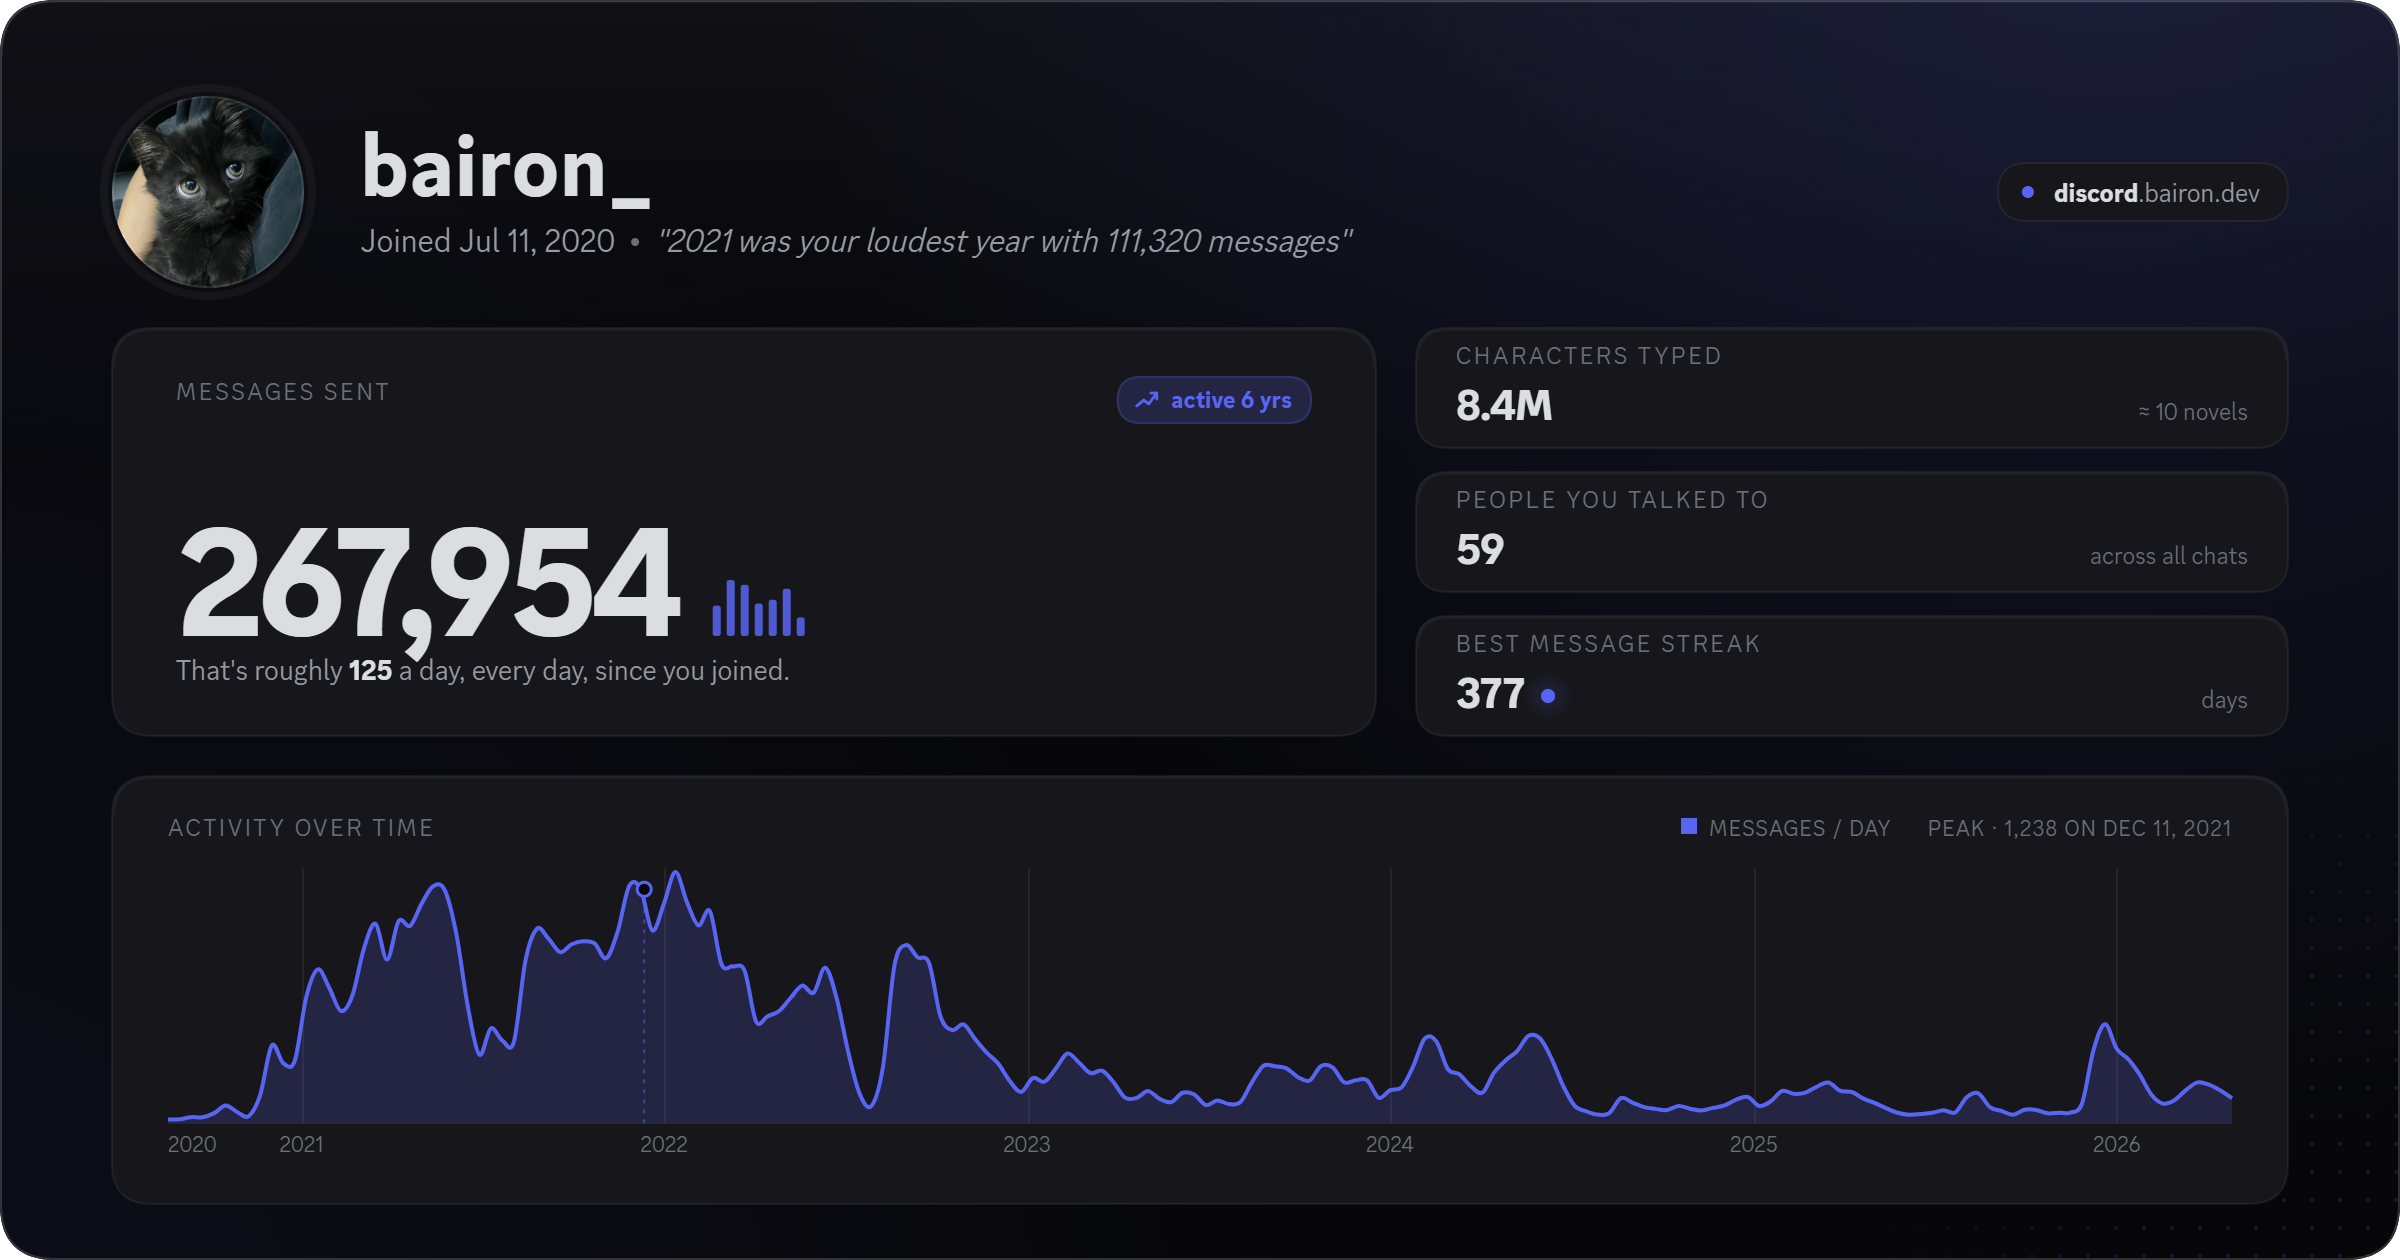
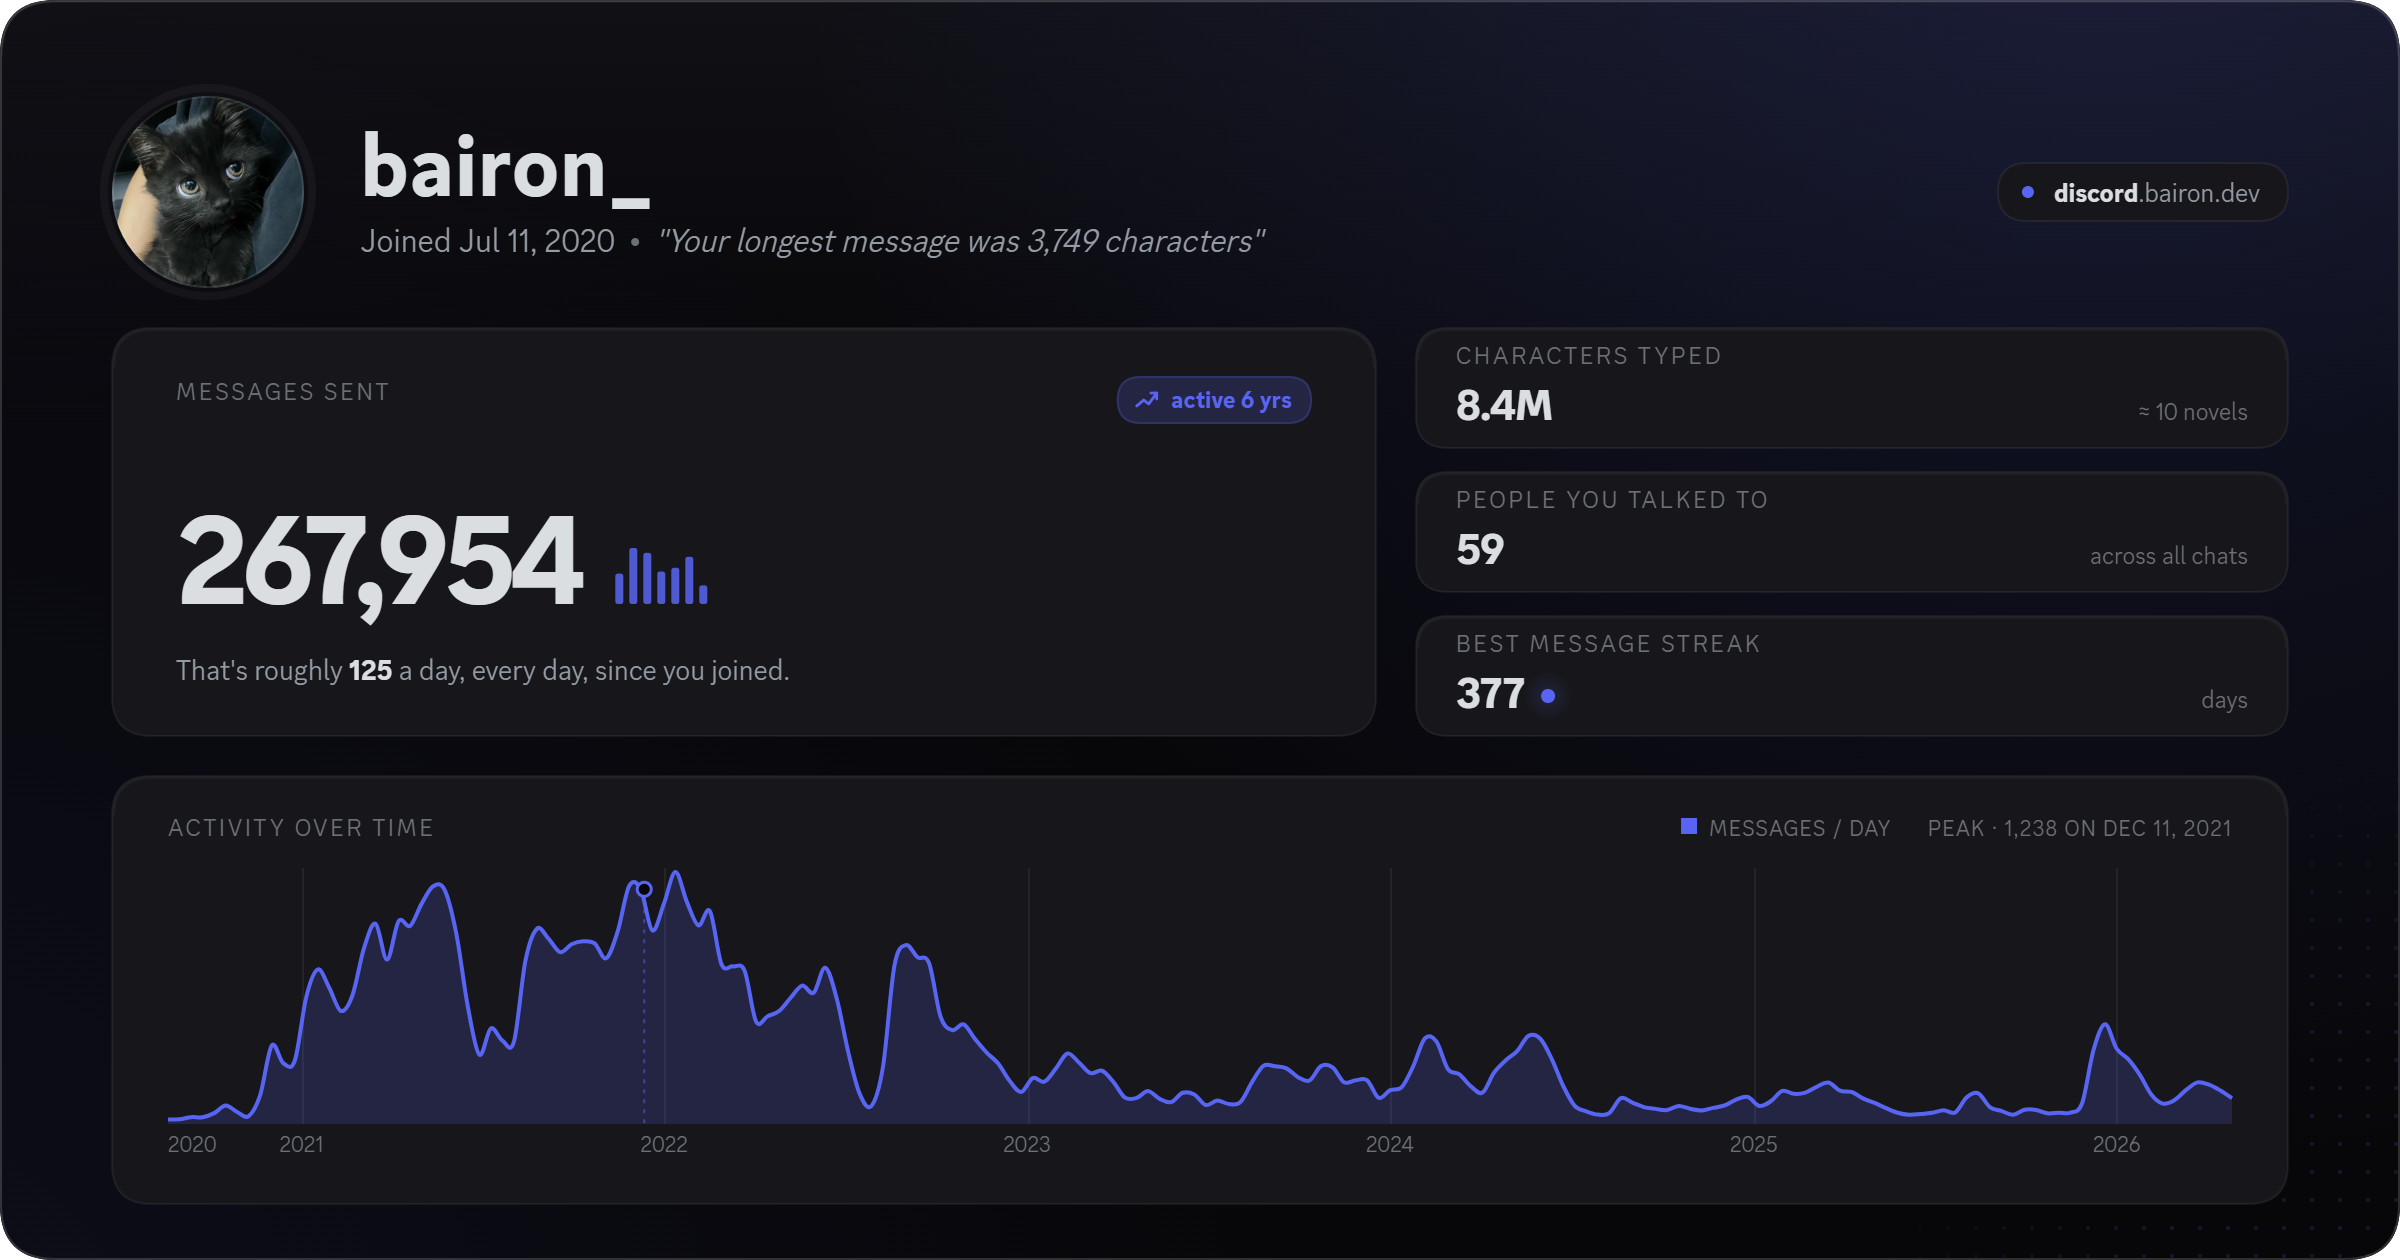
rewrite readme

Changed region(s): [[0.0625, 0.4024, 0.3438, 0.5262], [0.2812, 0.1857, 0.5625, 0.2167]]

diff --git a/viewer/src/lib/shareCard.ts b/viewer/src/lib/shareCard.ts
@@ -426,9 +426,9 @@ function drawHeroTile(ctx: CanvasRenderingContext2D, d: ShareCardData) {
     );
   }
 
-  const valueFontSize = 78;
+  const valueFontSize = 64;
   const valueBaseline = showCaption
-    ? captionBaseline - captionFontSize - 8
+    ? captionBaseline - captionFontSize - 24
     : y + h - HERO_PAD_Y;
 
   setLetterSpacing(ctx, "-3px");
@@ -800,13 +800,24 @@ function drawActivityChart(
   const startYear = new Date(minMs).getUTCFullYear();
   const endYear = new Date(maxMs).getUTCFullYear();
   const yearTicks: Array<{ x: number; label: string }> = [];
+  const MIN_TICK_GAP_PX = 8;
+  const prevFont = ctx.font;
+  ctx.font = `500 ${r.tickFontSize}px ${FONT}`;
+  const labelW = ctx.measureText("0000").width;
+  ctx.font = prevFont;
   for (let y = startYear; y <= endYear; y++) {
     const yMs = Date.UTC(y, 0, 1);
-    if (yMs < minMs || yMs > maxMs) {
-      if (y === startYear) yearTicks.push({ x: chartLeft, label: String(startYear) });
-      continue;
+    const beforeRange = yMs < minMs || yMs > maxMs;
+    if (beforeRange && y !== startYear) continue;
+    const isFirstCandidate = yearTicks.length === 0;
+    const tx = beforeRange ? chartLeft : chartLeft + ((yMs - minMs) / span) * chartW;
+    const candidateLeft = isFirstCandidate ? tx : tx - labelW / 2;
+    if (!isFirstCandidate) {
+      const prev = yearTicks[yearTicks.length - 1];
+      const prevIsFirst = yearTicks.length === 1;
+      const prevRight = prevIsFirst ? prev.x + labelW : prev.x + labelW / 2;
+      if (candidateLeft - prevRight < MIN_TICK_GAP_PX) continue;
     }
-    const tx = chartLeft + ((yMs - minMs) / span) * chartW;
     yearTicks.push({ x: tx, label: String(y) });
   }
   if (yearTicks.length === 0) yearTicks.push({ x: chartLeft, label: String(startYear) });

diff --git a/README.md b/README.md
@@ -1,8 +1,8 @@
 # Discord Package Explorer 🔍
 
-Your Discord data export, finally readable. Browse every conversation, scroll years of photos, and see the patterns hiding in your message history.
+Discord lets you download all of your data, but it arrives as a ZIP of CSVs and JSON files. This app opens that ZIP in your browser and turns it into a viewer: every conversation in a sidebar, every photo and video in a gallery, full-text search, and a stats page.
 
-![Preview](previews/image.png)
+![Preview](https://raw.githubusercontent.com/baairon/discord-package-explorer/main/previews/image.png)
 
 *The share card you get from the Stats page.*
 
